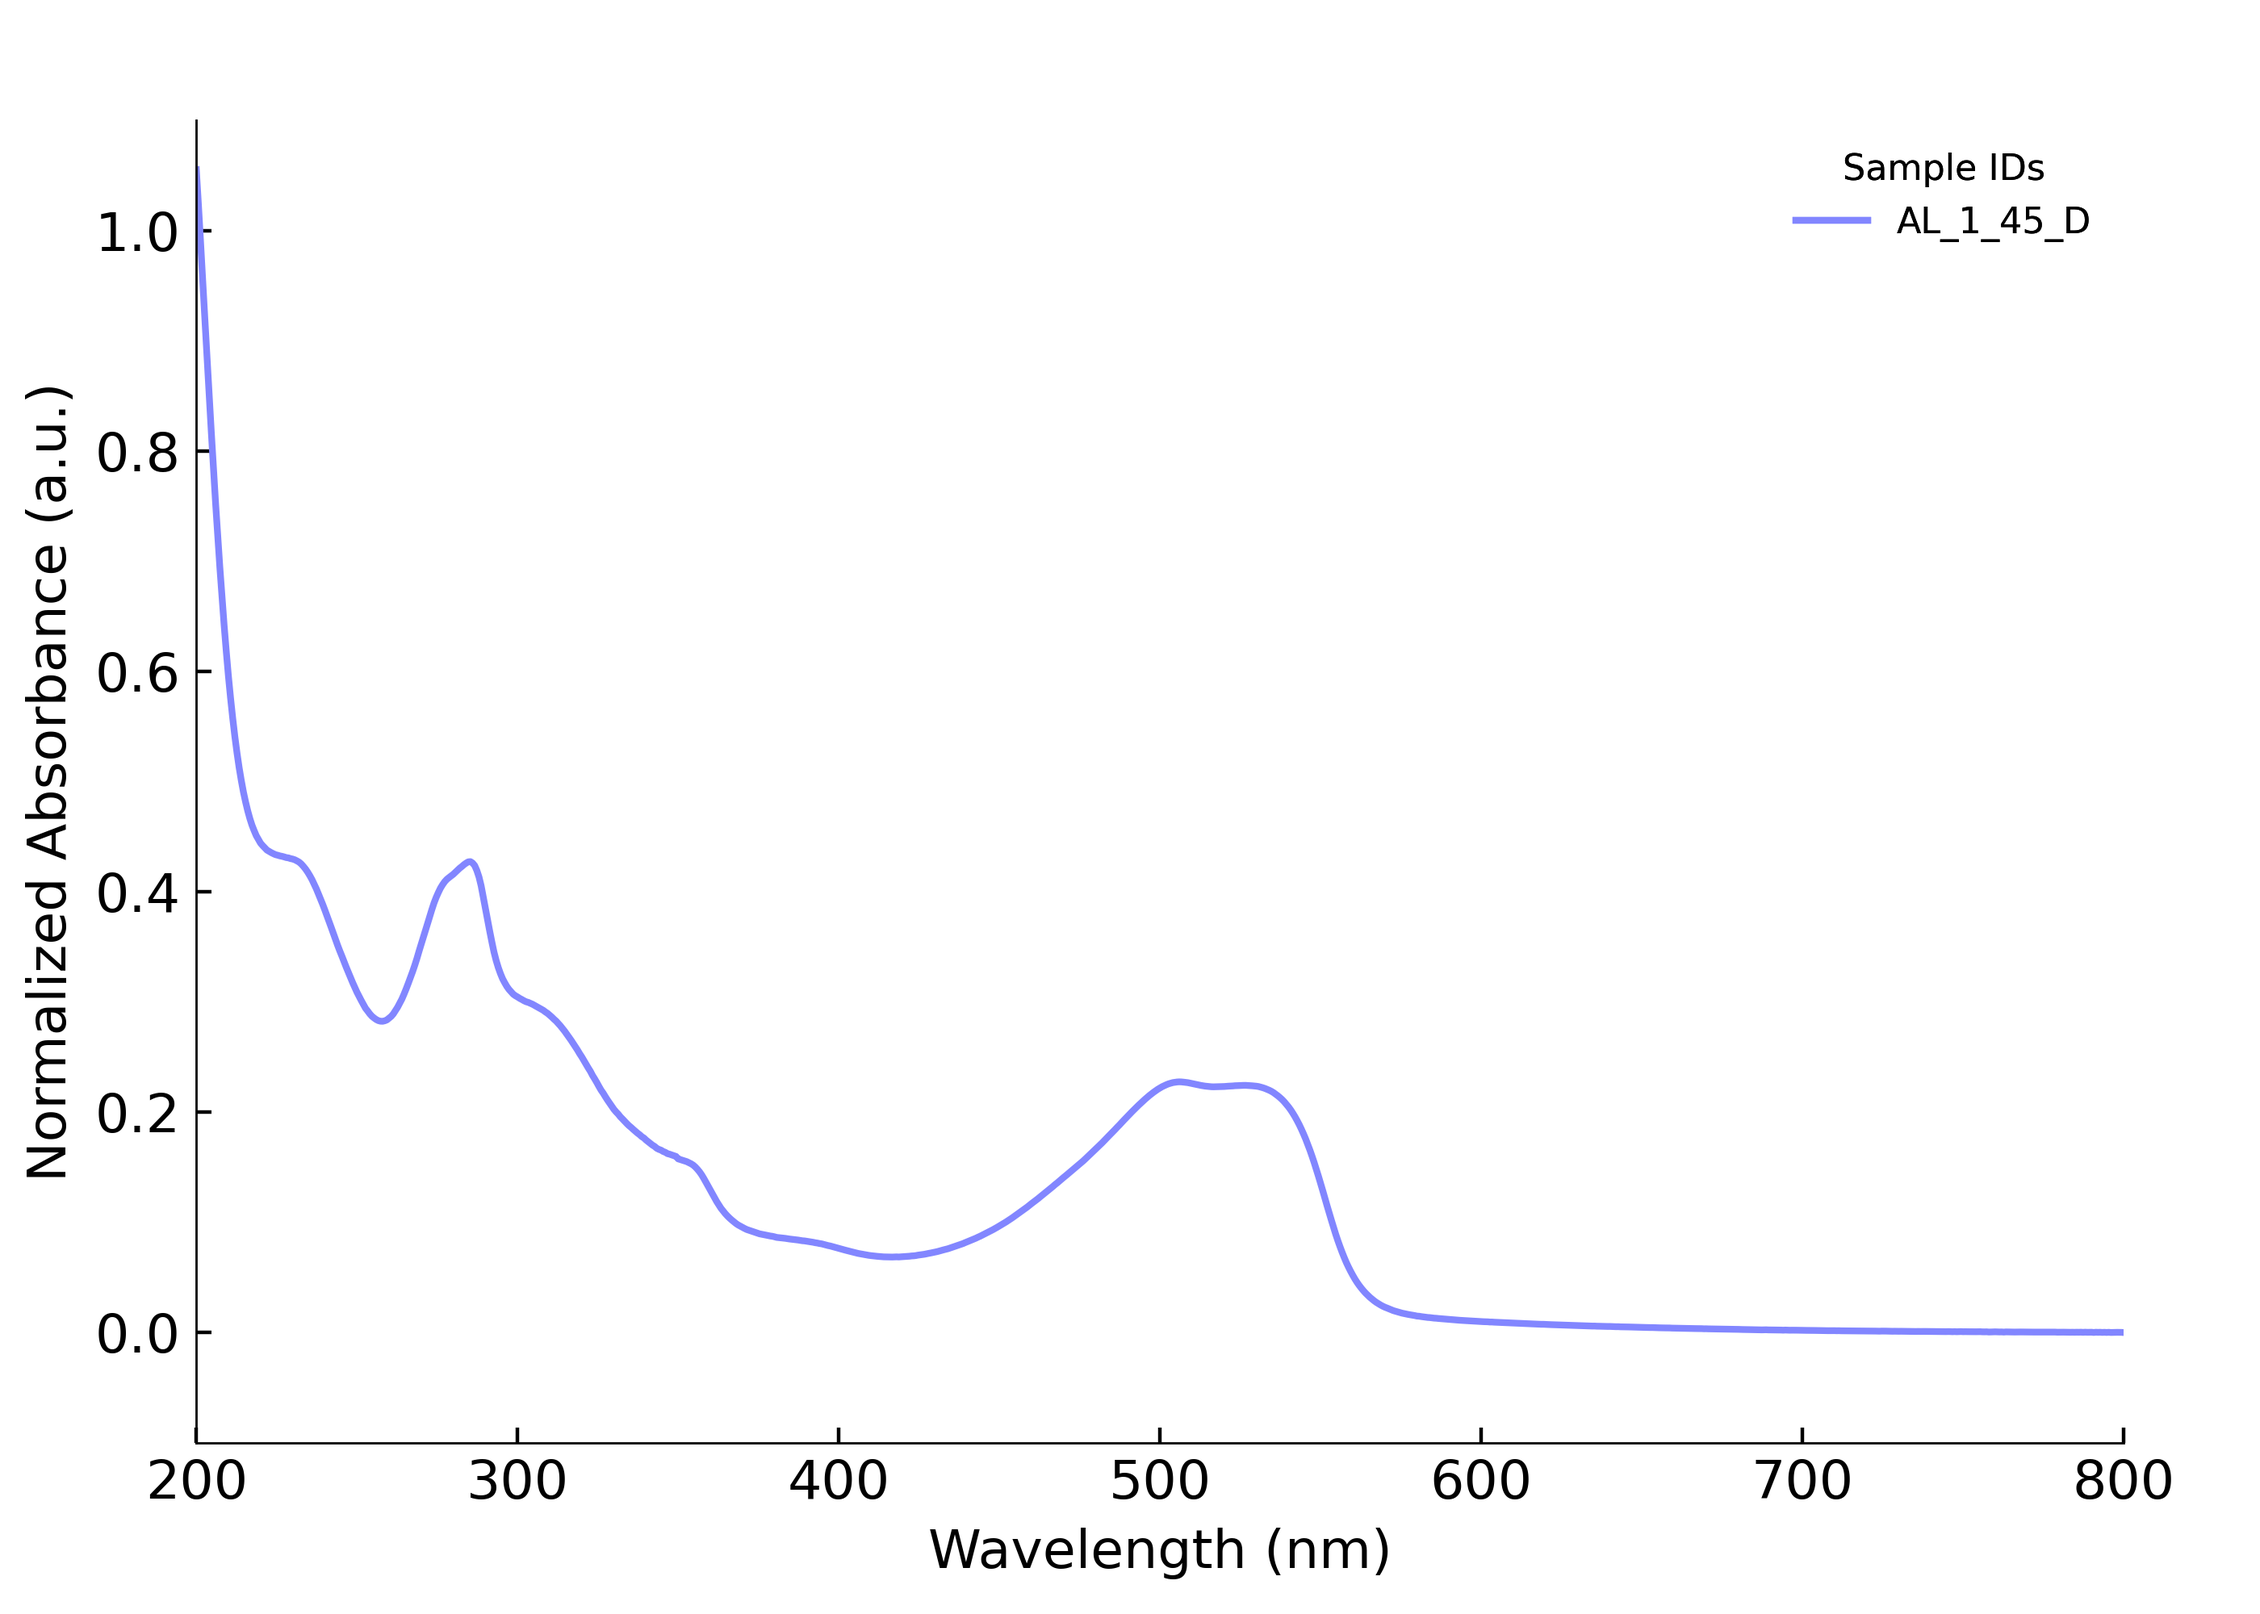
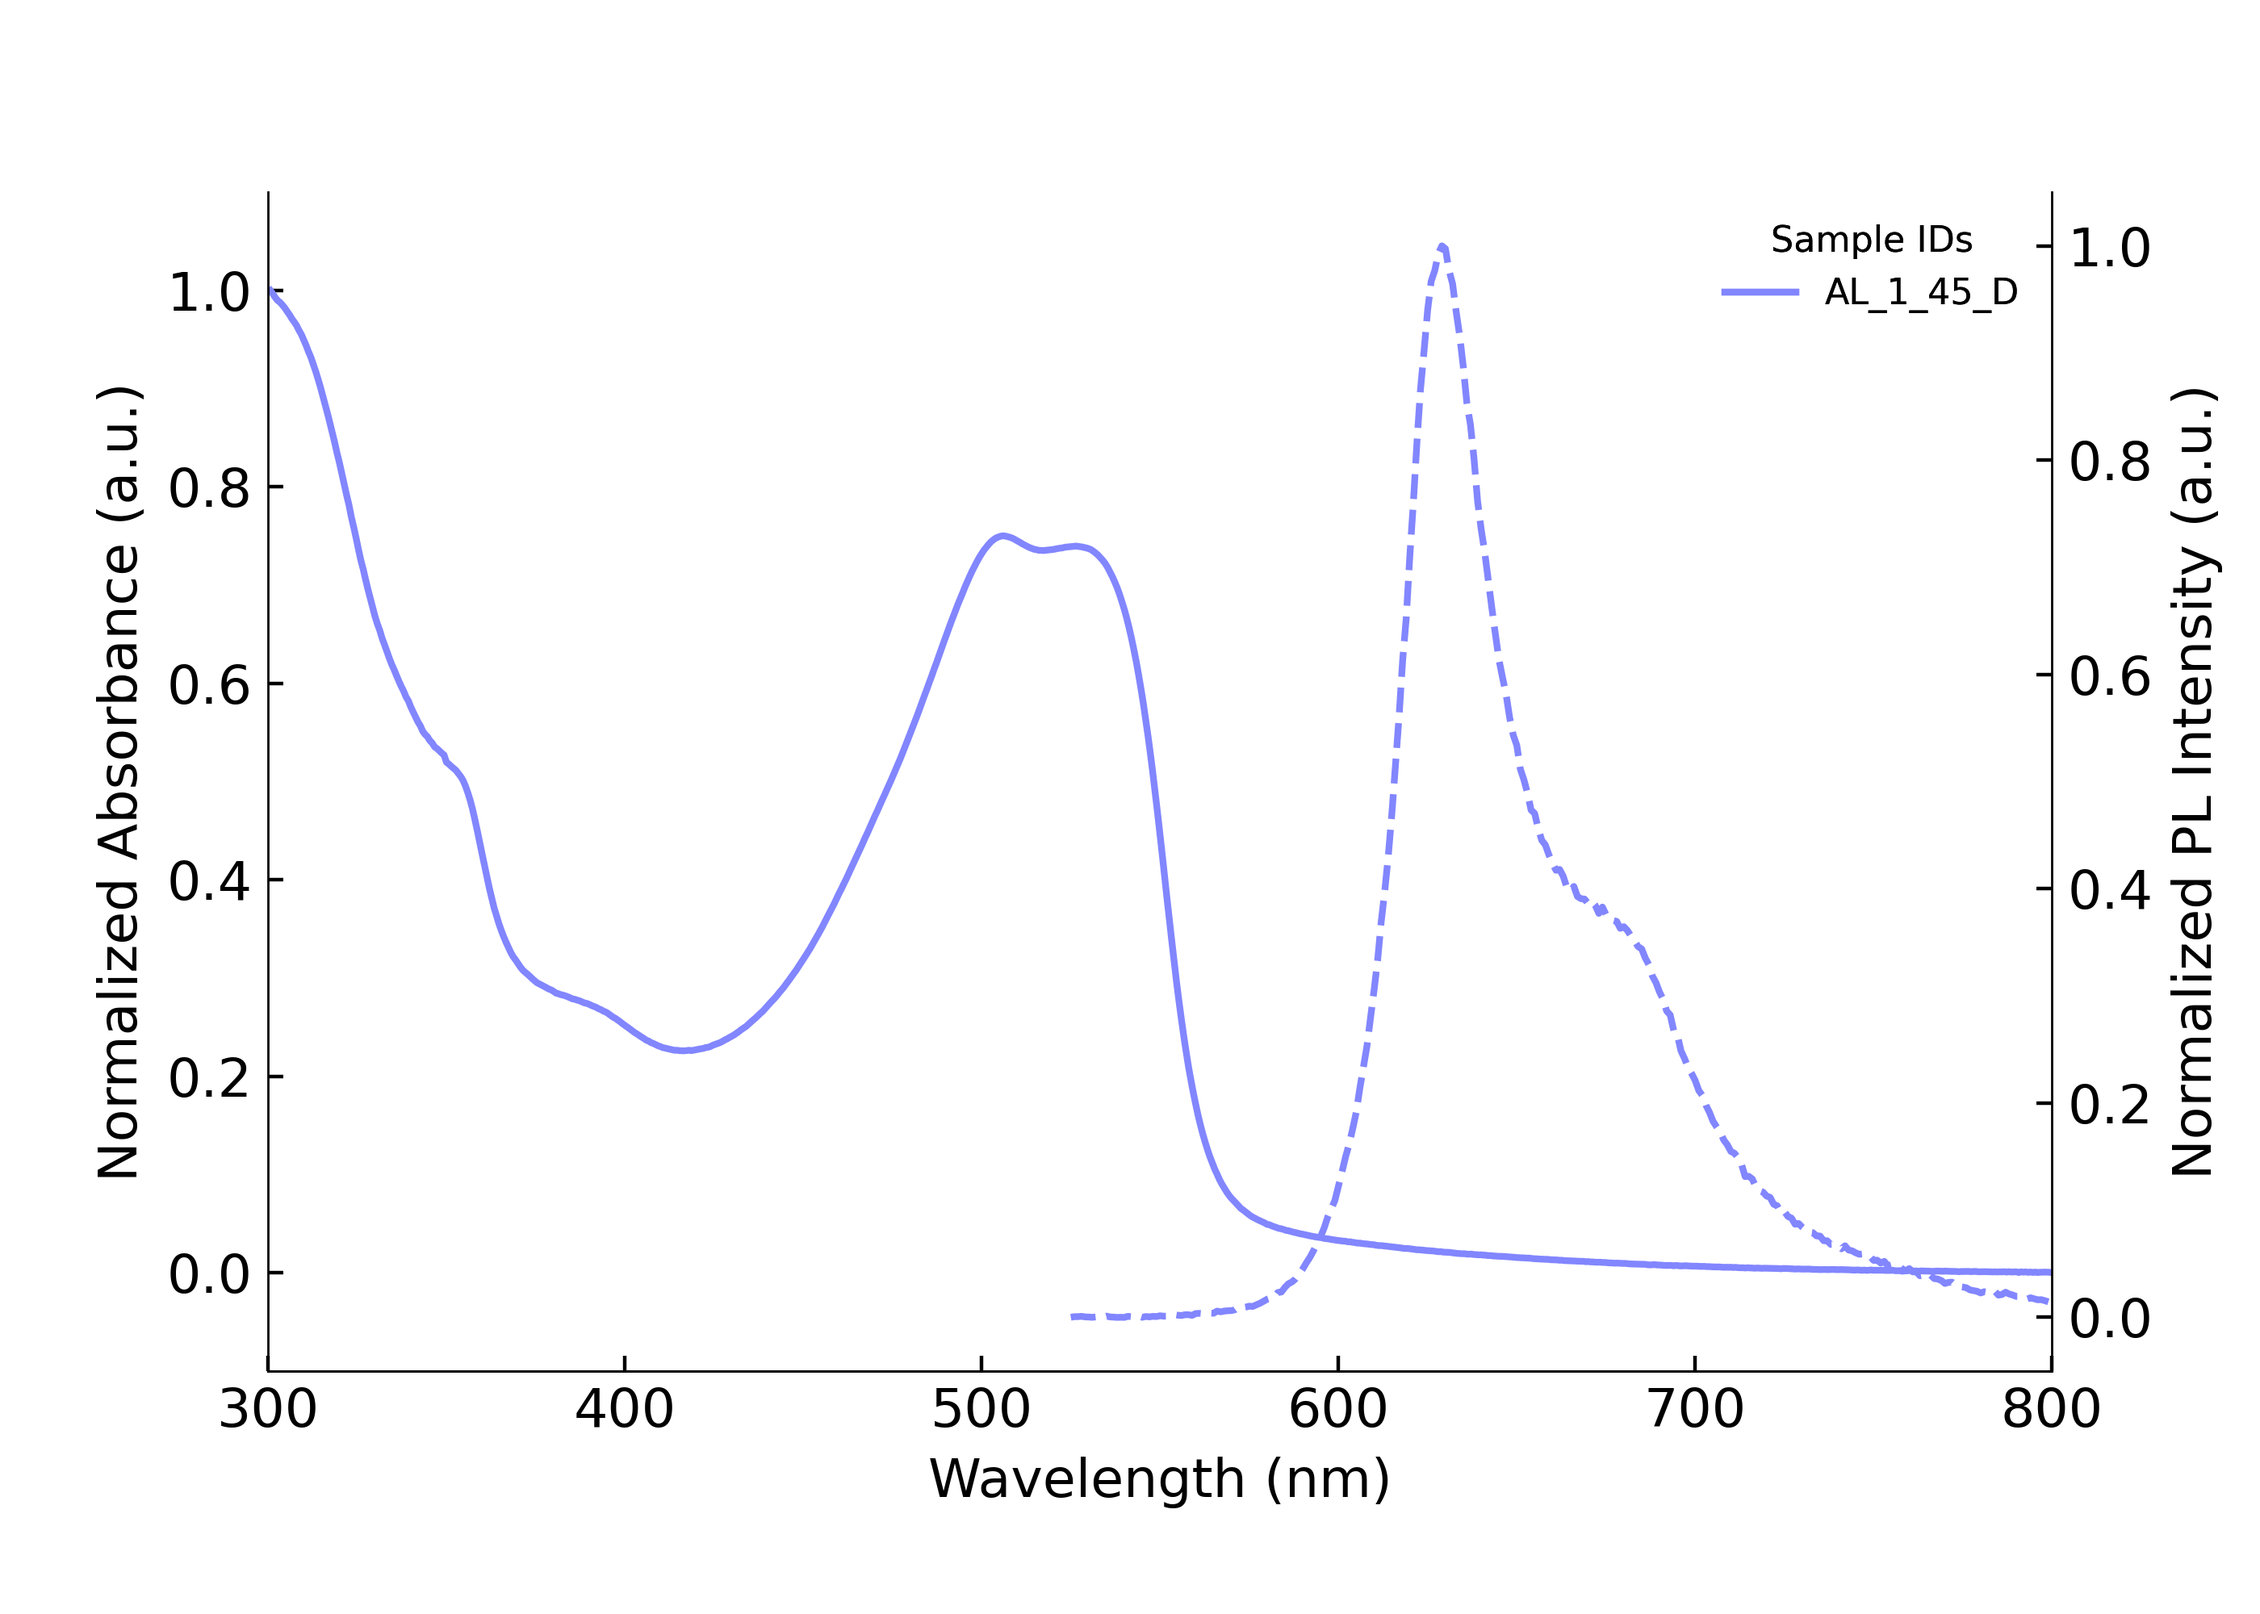
finished second draft of photophysical plot (uv-vis and pl)

diff --git a/code/photophysical/photophysical_plots.py b/code/photophysical/photophysical_plots.py
@@ -53,9 +53,9 @@ class PhotophysicalPlots:
         drop_columns: list[int],
         normalize: bool,
         baseline: bool,
+        xlim: tuple,
     ) -> pd.DataFrame:
         """Function that applies transformation to the dataframe which will make it ready for plotting. Note, this is specific to photophysical."""
-        # TODO: Photoluminescence
         # Get all index of columns
         temp_data = pd.read_excel(self.uv_vis_data_path)
         columns = range(0, len(temp_data.columns))
@@ -64,35 +64,77 @@ class PhotophysicalPlots:
         # Drop all rows after the data (i.e. drop the metadata)
         # Find row all NaNs
         row_to_drop = temp_data[temp_data.isnull().all(axis=1)].index[0]
-
         num_of_rows = len(temp_data.index)
         skiprows = list(range(row_to_drop, num_of_rows + 1))
         skiprows.append(1)  # skip row with wavelength and absorbance
         uv_vis_data = pd.read_excel(
             self.uv_vis_data_path, usecols=use_columns, skiprows=skiprows
         )
-        # Baseline correction
+        # cut off data according to xlim
+        # find index of wavelength closest to xlim
+        idx_xlim_low = (np.abs(uv_vis_data.iloc[:, 0] - xlim[0])).idxmin()
+        idx_xlim_high = (np.abs(uv_vis_data.iloc[:, 0] - xlim[1])).idxmin()
         for expt in self.uv_vis_experiment_names:
             # get all column_idx with expt name
             column_idx = [
                 i + 1 for i, column in enumerate(uv_vis_data.columns) if expt in column
             ]
             for col_idx in column_idx:
+                # Baseline correction
                 if baseline:
-                    absorbance = uv_vis_data.iloc[:, col_idx]
+                    absorbance = uv_vis_data.iloc[idx_xlim_high:idx_xlim_low, col_idx]
                     min_absorbance = min(absorbance)
-                    uv_vis_data.iloc[:, col_idx] = absorbance - min_absorbance
+                    uv_vis_data.iloc[idx_xlim_high:idx_xlim_low, col_idx] = (
+                        absorbance - min_absorbance
+                    )
                 # Normalize data
                 if normalize:  # divide by max absorbance
-                    absorbance = uv_vis_data.iloc[:, col_idx]
+                    absorbance = uv_vis_data.iloc[idx_xlim_high:idx_xlim_low, col_idx]
                     max_absorbance = max(absorbance)
-                    absorbance = absorbance / max_absorbance
+                    uv_vis_data.iloc[idx_xlim_high:idx_xlim_low, col_idx] = (
+                        absorbance / max_absorbance
+                    )
             # average triplicates
             uv_vis_data[expt + "_wavelength"] = uv_vis_data.iloc[
-                :, col_idx - 1
+                idx_xlim_high:idx_xlim_low, col_idx - 1
             ]  # wavelength from last replicate
-            uv_vis_data[expt + "_avg"] = uv_vis_data.iloc[:, column_idx].mean(axis=1)
-        return uv_vis_data
+            uv_vis_data[expt + "_avg"] = uv_vis_data.iloc[
+                idx_xlim_high:idx_xlim_low, column_idx
+            ].mean(axis=1)
+
+        # photoluminescence data
+        pl_data = pd.read_excel(self.photoluminescence_data_path, skiprows=[1])
+        # find index of wavelength closest to xlim
+        idx_xlim_low = (np.abs(pl_data.iloc[:, 0] - xlim[0])).idxmin()
+        idx_xlim_high = (np.abs(pl_data.iloc[:, 0] - xlim[1])).idxmin()
+        for expt in self.photoluminescence_experiment_names:
+            # get all column_idx with expt name
+            column_idx = [
+                i for i, column in enumerate(pl_data.columns) if expt in column
+            ]
+            for col_idx in column_idx:
+                # Baseline correction
+                if baseline:
+                    absorbance = pl_data.iloc[idx_xlim_low:idx_xlim_high, col_idx]
+                    min_absorbance = min(absorbance)
+                    pl_data.iloc[idx_xlim_low:idx_xlim_high, col_idx] = (
+                        absorbance - min_absorbance
+                    )
+                # Normalize data
+                if normalize:  # divide by max absorbance
+                    absorbance = pl_data.iloc[idx_xlim_low:idx_xlim_high, col_idx]
+                    max_absorbance = max(absorbance)
+                    pl_data.iloc[idx_xlim_low:idx_xlim_high, col_idx] = (
+                        absorbance / max_absorbance
+                    )
+            # average triplicates
+            pl_data[expt + "_wavelength"] = pl_data.iloc[
+                idx_xlim_low:idx_xlim_high, col_idx - 1
+            ]  # wavelength from last replicate
+            pl_data[expt + "_avg"] = pl_data.iloc[
+                idx_xlim_low:idx_xlim_high, column_idx
+            ].mean(axis=1)
+        return uv_vis_data, pl_data
 
     def plot_photophysical(
         self,
@@ -106,25 +148,41 @@ class PhotophysicalPlots:
         Function that plots photophysical data.
         """
         fig, ax = plt.subplots(figsize=(7, 5))
-        plt.tight_layout(pad=3)
-        # aesthetics
+        plt.tight_layout(pad=5)
+        # uv_vis plot
         ax.set_xlabel("Wavelength (nm)", fontsize=12)
         ax.set_ylabel("Normalized Absorbance (a.u.)", fontsize=12)
         ax.spines["top"].set_visible(False)
         ax.spines["right"].set_visible(False)
         ax.tick_params(axis="both", which="major", labelsize=12, direction="in")
+        # pl plot
+        ax2 = ax.twinx()
+        ax2.set_ylabel("Normalized PL Intensity (a.u.)", fontsize=12)
+        ax2.spines["top"].set_visible(False)
+        ax2.spines["left"].set_visible(False)
+        ax2.tick_params(axis="both", which="major", labelsize=12, direction="in")
         i = 0
         # TODO: photoluminescence
-        uv_vis_data = self.preprocess(drop_columns, normalize, baseline)
+        uv_vis_data, pl_data = self.preprocess(drop_columns, normalize, baseline, xlim)
 
-        for expt_name, label, color in zip(
-            self.uv_vis_experiment_names, self.labels, self.colors
+        for uv_vis_expt_name, pl_expt_name, label, color in zip(
+            self.uv_vis_experiment_names,
+            self.photoluminescence_experiment_names,
+            self.labels,
+            self.colors,
         ):
             ax.plot(
-                uv_vis_data[expt_name + "_wavelength"],  # x-axis
-                uv_vis_data[expt_name + "_avg"],  # y-axis
+                uv_vis_data[uv_vis_expt_name + "_wavelength"],  # x-axis
+                uv_vis_data[uv_vis_expt_name + "_avg"],  # y-axis
                 label=label,
                 color=color,
+            )
+            ax2.plot(
+                pl_data[pl_expt_name + "_wavelength"],  # x-axis
+                pl_data[pl_expt_name + "_avg"],  # y-axis
+                label=label,
+                color=color,
+                linestyle="--",
             )
             i += 1
         legend = ax.legend(

diff --git a/scripts/photophysical/run.py b/scripts/photophysical/run.py
@@ -31,10 +31,10 @@ data_dir: Path = root_path / "data" / "photophysical" / experiment_name
 
 # Filenames
 uv_vis_filename: str = "AL_1_45_D_E_F.xlsx"
-photoluminescence_filename: str = "AL_1_45_D_E_F.xlsx"
+photoluminescence_filename: str = "AL_1_45_D_PL.xlsx"
 
 uv_vis_experiment_names: list[str] = ["AL_1_45D_0.05mgml_water"]
-photoluminescence_experiment_names: list[str] = ["AL_1_45D_0.05mgml_water"]
+photoluminescence_experiment_names: list[str] = ["Emission AL-1-35L high"]
 
 labels: list = ["AL_1_45_D"]
 
@@ -55,6 +55,6 @@ if __name__ == "__main__":
         drop_columns=[0, 1, 2, 3],
         normalize=True,
         baseline=True,
-        xlim=(200, 800),
+        xlim=(300, 800),
         ylim=(-0.1, 1.1),
     )
